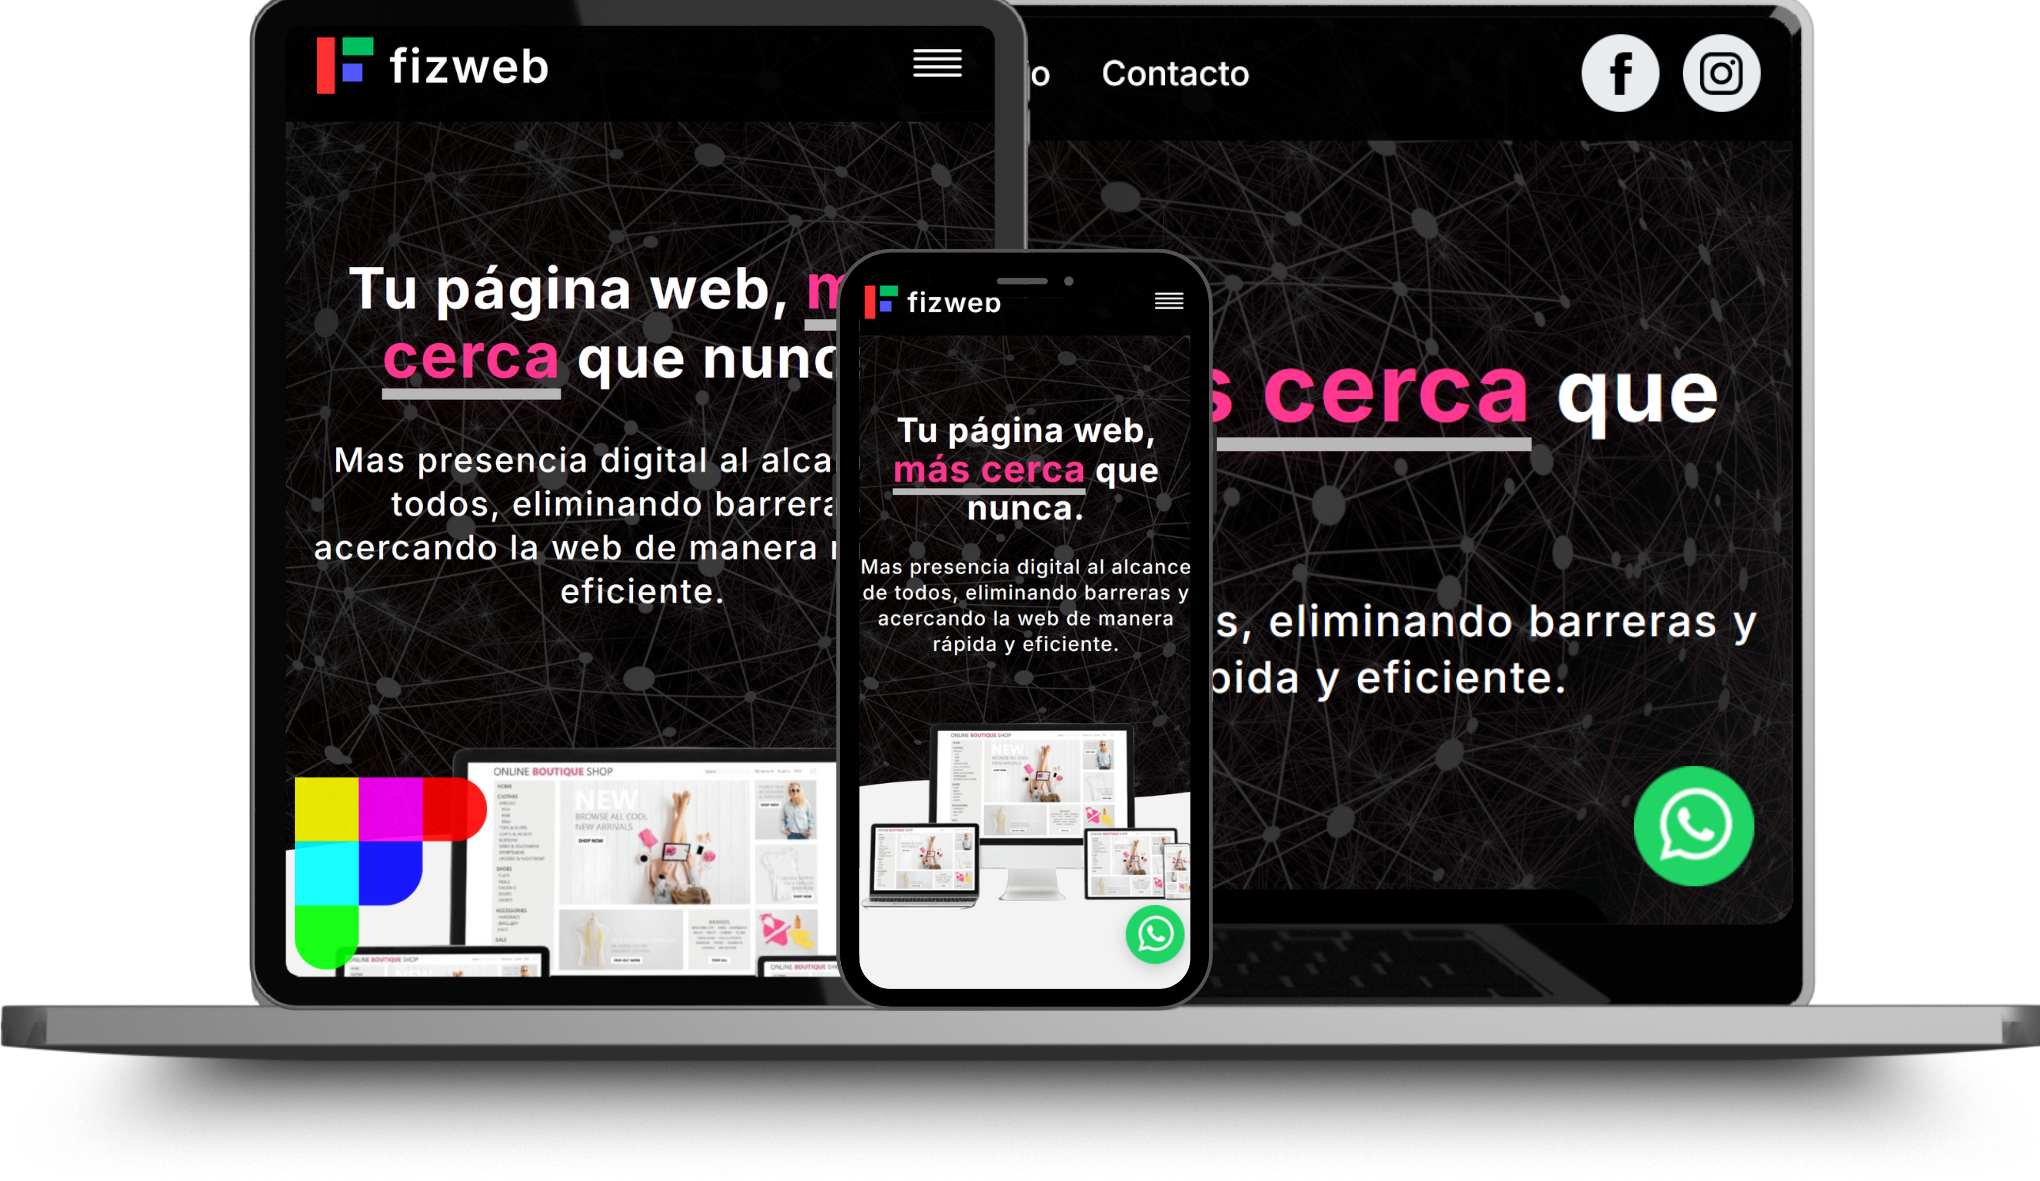
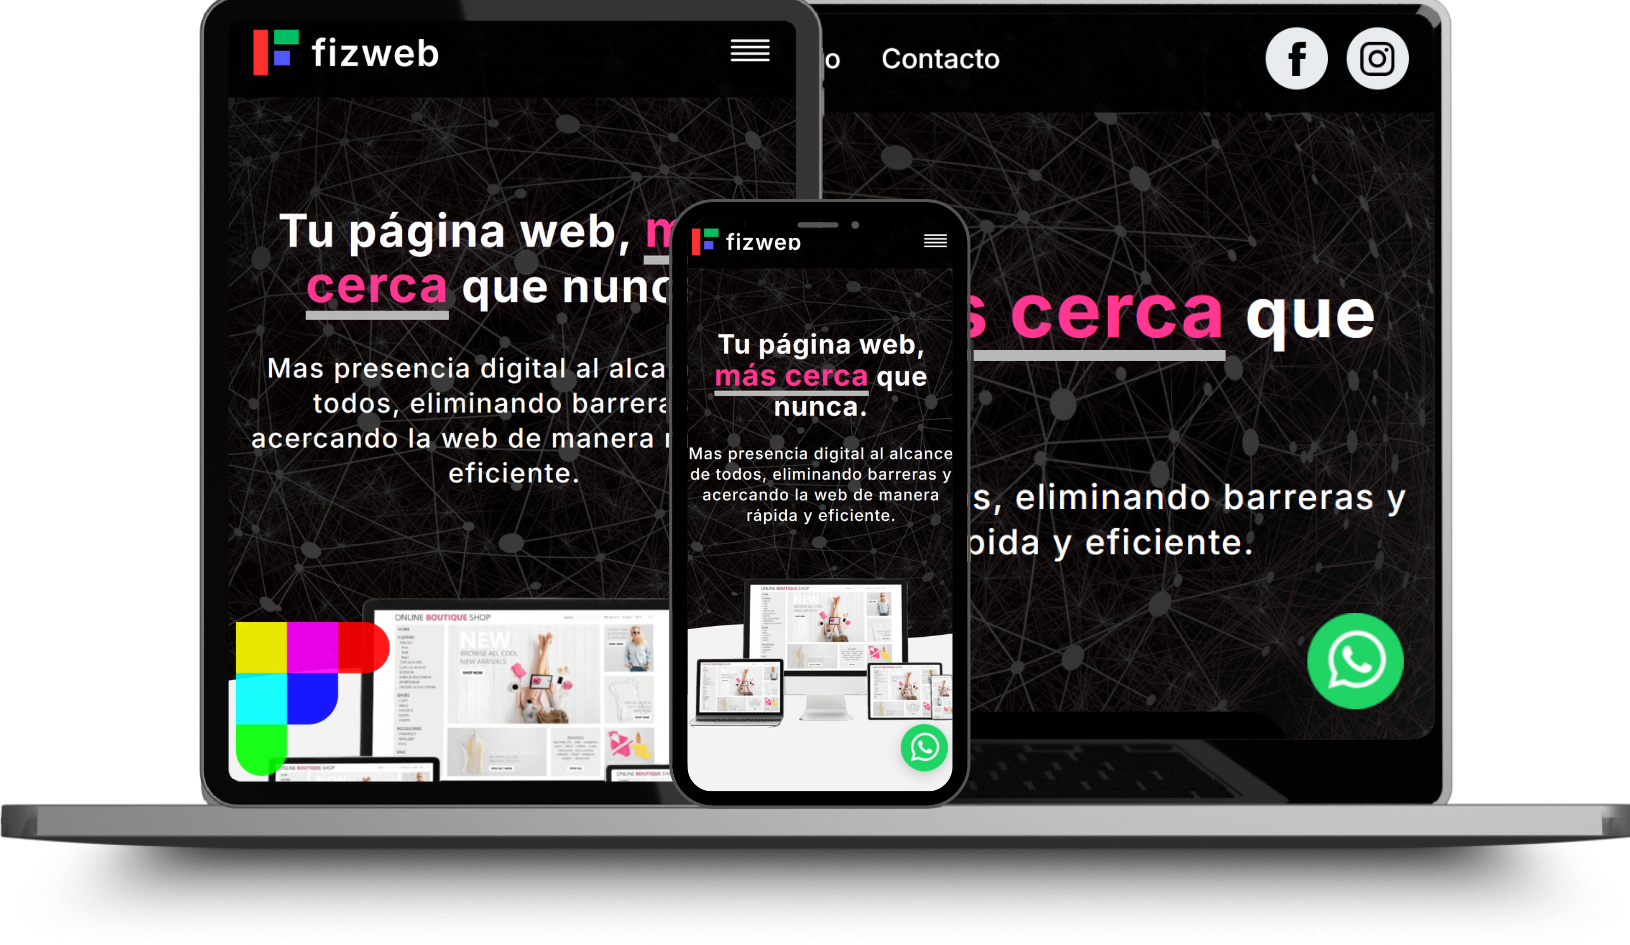
[ADD] hero image typing animation

diff --git a/main.js b/main.js
@@ -69,7 +69,7 @@ window.addEventListener('scroll', () => {
 /******************************************TABS OOPTION LOAD**********************************/
 /*******************************************WHATSAPP LOAD*****************************************/
 /*******************************************banner-welcome LOAD*****************************************/
-
+/**************************Función de animación de tipeo**************************************/
 document.addEventListener('DOMContentLoaded', () => {
   const hero = document.querySelector('.hero__image');
   if (hero) {
@@ -203,7 +203,61 @@ setTimeout(loadWelcomeBanner, 400);
 
 });
 
+// Función de animación de tipeo
+function initTypewriter() {
+    const typewriterElement = document.querySelector('.typewriter');
+    if (!typewriterElement) return;
 
+    const words = typewriterElement.getAttribute('data-words').split(',');
+    let currentWordIndex = 0;
+    let currentText = '';
+    let isDeleting = false;
+    let typeSpeed = 150;
+    let deleteSpeed = 100;
+    let pauseTime = 2000;
+
+    function type() {
+        const currentWord = words[currentWordIndex];
+        
+        if (isDeleting) {
+            currentText = currentWord.substring(0, currentText.length - 1);
+            typeSpeed = deleteSpeed;
+        } else {
+            currentText = currentWord.substring(0, currentText.length + 1);
+            typeSpeed = 150;
+        }
+
+        typewriterElement.textContent = currentText;
+
+        if (!isDeleting && currentText === currentWord) {
+            // Pausa antes de empezar a borrar
+            typeSpeed = pauseTime;
+            isDeleting = true;
+        } else if (isDeleting && currentText === '') {
+            // Cambiar a la siguiente palabra
+            isDeleting = false;
+            currentWordIndex = (currentWordIndex + 1) % words.length;
+            typeSpeed = 500; // Pausa antes de escribir la siguiente palabra
+        }
+
+        setTimeout(type, typeSpeed);
+    }
+
+    // Iniciar la animación después de que se muestre el hero
+    setTimeout(() => {
+        type();
+    }, 1000);
+}
+
+// Llamar a la función en el DOMContentLoaded existente
+document.addEventListener('DOMContentLoaded', () => {
+    // ...código existente...
+    
+    // Inicializar typewriter
+    initTypewriter();
+    
+    // ...resto del código...
+});
 /*****************************************************************************************************/
 /* ======================================== WELCOME BANNER ================================ */   
 /*****************************************************************************************************/

diff --git a/style.css b/style.css
@@ -626,6 +626,39 @@ body:not(.contact-page) {
 
 }
 
+/* Animación de tipeo y borrado */
+.typewriter {
+    position: relative;
+    color: var(--color-secondary);
+    font-size: 1.1em;
+    text-decoration: underline;
+    text-decoration-color: #b8b8b8;
+    text-decoration-thickness: 7px;
+    min-height: 1.2em;
+    display: inline-block;
+}
+
+.typewriter::after {
+    content: '|';
+    position: absolute;
+    right: -8px;
+    color: var(--color-secondary);
+    font-weight: normal;
+    animation: blink 1s infinite;
+}
+
+@keyframes blink {
+    0%, 50% { opacity: 1; }
+    51%, 100% { opacity: 0; }
+}
+
+/* Asegurar que el texto se mantenga en su lugar */
+.typewriter-text {
+    display: inline-block;
+    min-width: 120px;
+    text-align: left;
+}
+
 @media (max-width: 900px) {
     .hero__container {
         padding-top: 130px;

diff --git a/index.html b/index.html
@@ -82,7 +82,7 @@
 
         <div class="hero__container">
             <div class="hero__image">
-                <h1>Tu página web, <span>más cerca</span> que nunca.</h1>
+                <h1>Tu página web, <span class="typewriter" data-words="más cerca,al alcance,disponible,accesible,lista,preparada,real"></span> que nunca.</h1>
                 <h2>Mas presencia digital al alcance de todos, acercando la web de manera rápida y
                     eficiente. </h2>
             </div>
